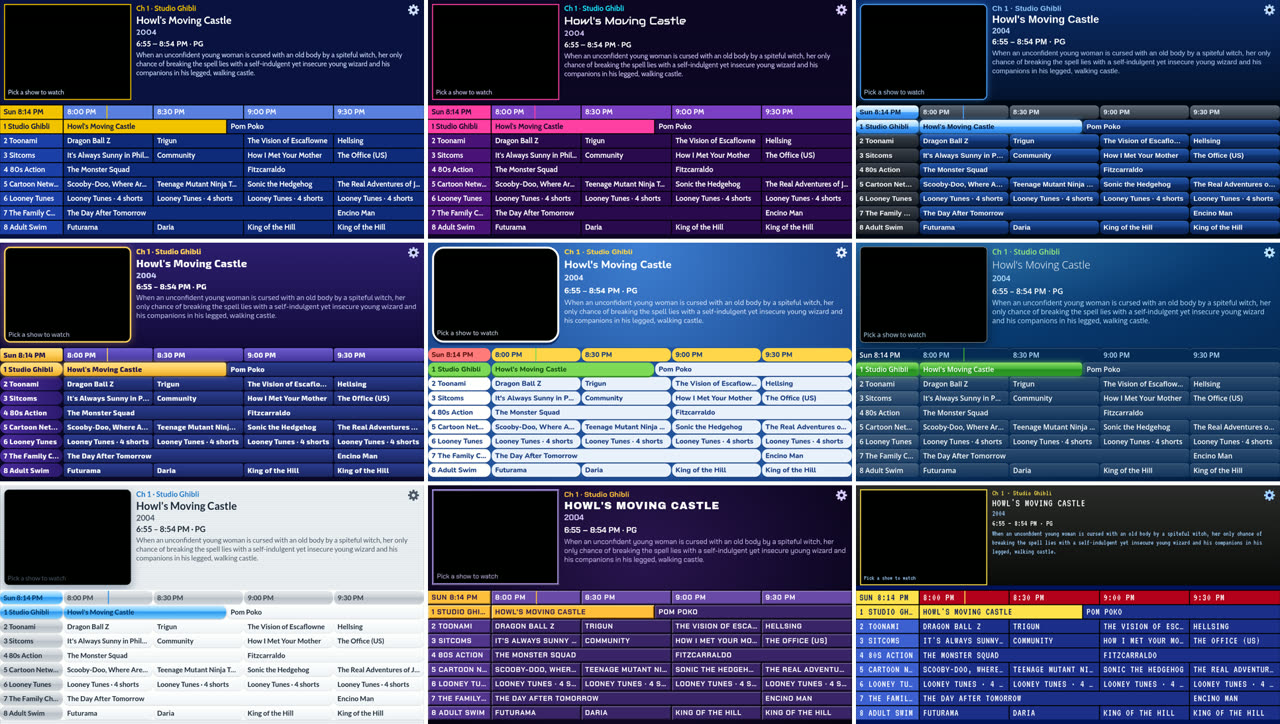
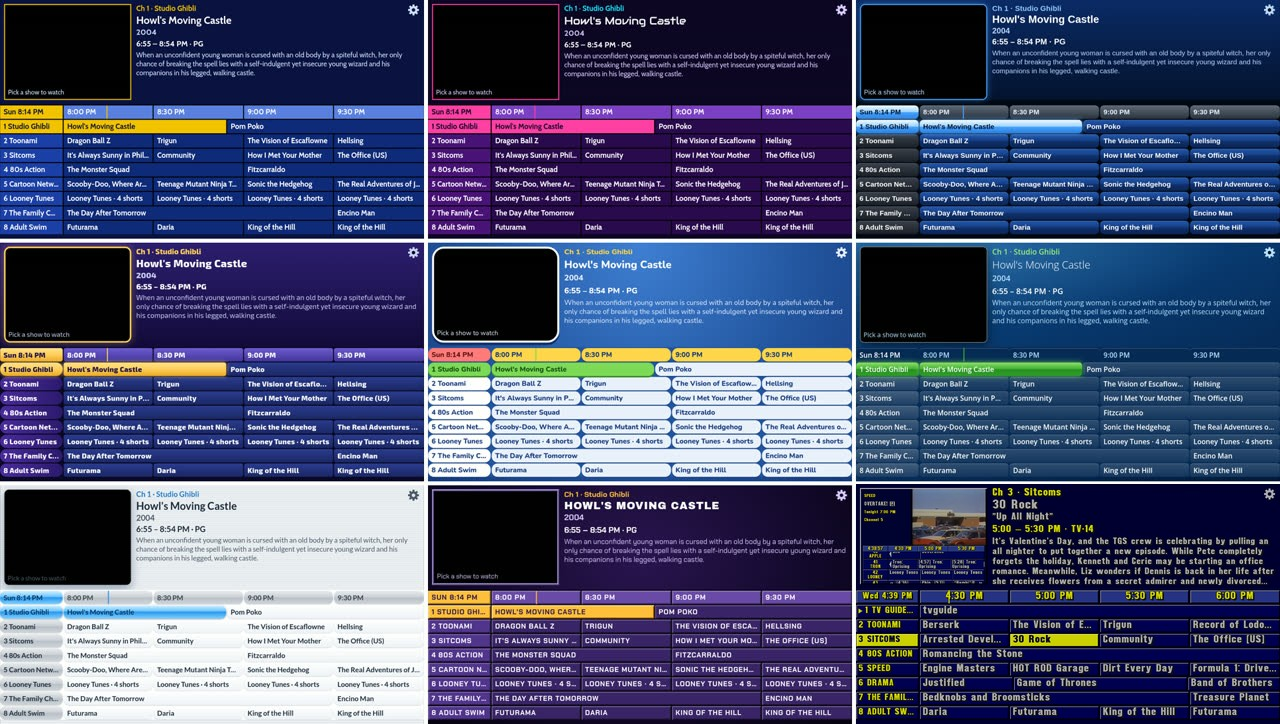
viewer: the TV Guide theme replaces Listings Channel
The ninth theme now has the look of the TV Guide Channel page: its
colours, the 3-D frame on every box, the heavy black shadow under the
lettering and the PrevueGrid font. The highlight, which the channel never
had, is the yellow as a solid box. Its splash is a still of that page.

The theme keeps the id "listings", so a device that had the old one
chosen and the box's boot splash files carry over. VT323 is no longer
used and leaves the repo. The box's boot splash and the README montages
are rendered again.

Claude-Session: https://claude.ai/code/session_01WarfUeWAuyQyJtkBMvbMCn

diff --git a/docker/web/app/css/guide.css b/docker/web/app/css/guide.css
@@ -54,7 +54,7 @@
 }
 
 /* Faces of the 2026-11 themes (Digital Cable, Satellite, DVR, Media Center,
-   Aqua, Set-Top Web, Listings Channel): Latin only, loaded when a theme uses them. */
+   Aqua, Set-Top Web): Latin only, loaded when a theme uses them. */
 @font-face {
   font-family: "Arimo"; font-style: normal; font-weight: 400; font-display: swap;
   src: url("/fonts/arimo-latin-400-normal.woff2") format("woff2");
@@ -135,10 +135,11 @@
   src: url("/fonts/chakra-petch-latin-700-normal.woff2") format("woff2");
   unicode-range: U+0000-00FF, U+0131, U+0152-0153, U+02BB-02BC, U+02C6, U+02DA, U+02DC, U+0304, U+0308, U+0329, U+2000-206F, U+20AC, U+2122, U+2191, U+2193, U+2212, U+2215, U+FEFF, U+FFFD;
 }
+/* The TV Guide theme's face: the Amiga listings font of the real channel
+   (not ours: see fonts/PrevueGrid-NOTICE.txt). css/tvguide.css uses the same file. */
 @font-face {
-  font-family: "VT323"; font-style: normal; font-weight: 400; font-display: swap;
-  src: url("/fonts/vt323-latin-400-normal.woff2") format("woff2");
-  unicode-range: U+0000-00FF, U+0131, U+0152-0153, U+02BB-02BC, U+02C6, U+02DA, U+02DC, U+0304, U+0308, U+0329, U+2000-206F, U+20AC, U+2122, U+2191, U+2193, U+2212, U+2215, U+FEFF, U+FFFD;
+  font-family: "PrevueGrid"; font-style: normal; font-weight: 400; font-display: swap;
+  src: url("/fonts/PrevueGrid.ttf") format("truetype");
 }
 
 /* ---- Themes ---------------------------------------------------------- */
@@ -191,6 +192,9 @@
   --lines: var(--gap);            /* the frame behind settings rows and button groups;
                                      transparent in the rounded themes, so no box shows */
   --track: normal;
+  --chan-text: var(--text);       /* channel names; yellow in the TV Guide theme */
+  --chan-case: var(--case);
+  --ink-shadow: none;             /* a hard shadow under all lettering (TV Guide theme) */
 }
 
 /* Vaporwave: purple cells, pink where Cable is yellow, cyan for accent
@@ -322,24 +326,52 @@
   --frame: 4px ridge #8f7bc0;
 }
 
-/* Listings Channel (early-90s listings channel): deep blue boxes, a red
-   time bar, big pixel lettering. */
+/* TV Guide (the scrolling listings channel of the late 1990s, as on our
+   channel 1): the colours, frames, lettering and font of css/tvguide.css.
+   Background #000030, boxes #000051, the time bar #263383, yellow #cbd100
+   for channels and times, grey #aaaaaa listings, every box in the Amiga's
+   3-D frame (a black line, then a light top-left and a black bottom-right
+   edge) and every letter over a heavy black shadow. The highlight, which
+   the channel never had, is the yellow as a solid box. */
 [data-theme="listings"] {
-  --navy: #00125a; --program: #1c2e8a; --channel: #3d5fd1; --timebar: #b3001b;
-  --yellow: #ffe14d; --soft: #9fd0ff; --white: #ffffff; --gap: #000000;
-  --ink-accent: #ffe14d; --splash-bg: #00125a;
-  --font: "VT323", "Courier New", monospace; --font-display: var(--font); --display-weight: 400;
-  --band: linear-gradient(180deg, #2a2a2a 0%, #0a0a0a 100%);
-  --sel-text: #00125a; --cell-font: 20px; --case: uppercase; --track: 1px;
+  --navy: #000030; --program: #000051; --channel: #000051; --timebar: #263383;
+  --yellow: #cbd100; --soft: #aaaaaa; --white: #aaaaaa; --gap: #000030;
+  --ink-accent: #cbd100; --splash-bg: #000030;
+  --font: "PrevueGrid", "Arimo", Arial, Helvetica, sans-serif; --font-display: var(--font); --display-weight: 400;
+  --text: #aaaaaa; --slot-text: #cbd100; --chan-text: #cbd100; --chan-case: uppercase;
+  --fill-clock: #263383; --clock-text: #cbd100; --sel-text: #000030;
+  --cell-font: 21px;
+  --cell-shadow: inset 0 0 0 1px #000, inset 2px 2px 0 #aaaaaa, inset -2px -2px 0 #000;
+  --sel-shadow: inset 0 0 0 1px #000, inset 2px 2px 0 #f4f7a0, inset -2px -2px 0 #000;
+  --ink-shadow: 1px 0 0 #111, -1px 0 0 #111, 0 1px 0 #111, 0 -1px 0 #111, 2px 2px 0 #111, 3px 3px 0 #111;
+  --frame: 2px solid #aaaaaa;
 }
-/* VT323 has one weight; never a faux bold. */
-:root[data-theme="listings"] body { font-weight: 400; }
-/* VT323 sets small for its size: the details beside the picture go up a step. */
-:root[data-theme="listings"] #info .ch { font-size: 20px; }
-:root[data-theme="listings"] #info .title { font-size: 28px; }
-:root[data-theme="listings"] #info .ep, :root[data-theme="listings"] #info .time { font-size: 21px; }
-:root[data-theme="listings"] #info .plot { font-size: 19px; line-height: 20px; }
-:root[data-theme="listings"] #previewFrame { font-size: 17px; }
+/* The font has one weight: never a faux bold (the other themes' previews
+   in the theme picker keep their own weights). */
+:root[data-theme="listings"] body,
+:root[data-theme="listings"] body *:not(.tpPrev):not(.tpPrev *) { font-weight: 400 !important; }
+/* Dark lettering on the yellow highlight carries no shadow. */
+:root[data-theme="listings"] .sel { text-shadow: none; }
+/* The frame's two edges, as on every box. */
+:root[data-theme="listings"] #previewFrame { border-color: #aaaaaa #000 #000 #aaaaaa; font-size: 16px; }
+/* The font is wide and sets small for its size: the cells sit a pixel high,
+   and the details beside the picture go up a step. */
+:root[data-theme="listings"] .cell { line-height: 26px; padding: 0 6px; }
+:root[data-theme="listings"] .cell.clock, :root[data-theme="listings"] .cell.slot { text-align: center; }
+/* The narrow first column: a size down, so "Wed 4:12 PM" and most channel names fit. */
+:root[data-theme="listings"] .cell.chan { font-size: 18px; padding: 0 5px; }
+:root[data-theme="listings"] .cell.clock { font-size: 17px; padding: 0 2px; }
+:root[data-theme="listings"] #info .ch { font-size: 21px; }
+:root[data-theme="listings"] #info .title { font-size: 25px; margin: 3px 0; }
+:root[data-theme="listings"] #info .ep, :root[data-theme="listings"] #info .time { font-size: 20px; }
+:root[data-theme="listings"] #info .time { color: var(--yellow); }
+:root[data-theme="listings"] #info .plot { font-size: 18px; line-height: 20px; }
+:root[data-theme="listings"] #gridMsg, :root[data-theme="listings"] .btn,
+:root[data-theme="listings"] #setRows > div { font-size: 19px; }
+:root[data-theme="listings"] #setTitle, :root[data-theme="listings"] #tpTitle,
+:root[data-theme="listings"] #detMeta { font-size: 20px; }
+:root[data-theme="listings"] #setHelp, :root[data-theme="listings"] #detText { font-size: 18px; }
+:root[data-theme="listings"] #tpHelp { font-size: 16px; }
 
 html, body {
   margin: 0; height: 100%; overflow: hidden; background: #000;
@@ -348,6 +380,7 @@ html, body {
 body {
   transform-origin: 0 0;          /* stretched by the script for non-square pixels (?screen=) */
   font-family: var(--font); font-weight: 700; color: var(--white);
+  text-shadow: var(--ink-shadow);
   -webkit-user-select: none; user-select: none;
   touch-action: none; -webkit-tap-highlight-color: transparent;
   -webkit-text-size-adjust: 100%; text-size-adjust: 100%;
@@ -402,7 +435,7 @@ body.tv, body.tv * { cursor: none !important; }
 }
 .cell.clock { background: var(--fill-clock); color: var(--clock-text); }
 .cell.slot { background: var(--fill-slot); color: var(--slot-text); }
-.cell.chan { background: var(--fill-channel); cursor: pointer; border-radius: var(--r-chan); }
+.cell.chan { background: var(--fill-channel); color: var(--chan-text); text-transform: var(--chan-case); cursor: pointer; border-radius: var(--r-chan); }
 .cell.show { background: var(--fill-program); cursor: pointer; }
 .cell.none { color: var(--soft); }
 .cell.narrow { padding: 0; color: transparent; }
@@ -492,6 +525,7 @@ body.settings #cog { color: var(--ink-accent); }
   background: var(--band) top / 100% 45% no-repeat, var(--stage-bg);
   display: flex; flex-direction: column; justify-content: flex-end; gap: 3px; padding: 4px 5px;
   font-family: var(--font); color: var(--white); text-align: left;
+  text-shadow: var(--ink-shadow);   /* this tile's own, not the page's */
 }
 .tpName {
   font-family: var(--font-display); font-weight: var(--display-weight);
@@ -509,7 +543,7 @@ body.settings #cog { color: var(--ink-accent); }
 .tpUsing {
   position: absolute; right: 4px; top: 4px; padding: 0 5px; height: 15px; line-height: 15px;
   font-size: 11px; font-weight: 700; border-radius: 3px;
-  background: var(--fill-sel); color: var(--sel-text);
+  background: var(--fill-sel); color: var(--sel-text); text-shadow: none;
 }
 
 /* ---- Show details (over the grid) --------------------------------- */
@@ -666,7 +700,7 @@ body.tv #banner.narrow #banMute { border-right: 0; }
    nothing shows at the edges but the scene. */
 
 #splash {
-  position: fixed; inset: 0; background: var(--splash-bg);
+  position: fixed; inset: 0; background: var(--splash-bg); text-shadow: none;
   transition: opacity 450ms ease-out;
 }
 #splash.fade { opacity: 0; pointer-events: none; }
@@ -687,7 +721,7 @@ body.tv #banner.narrow #banMute { border-right: 0; }
 #splash .lato { font-family: "Lato", Arial, sans-serif; font-weight: 900; }
 #splash .archivo { font-family: "Archivo Black", "Arial Black", Impact, sans-serif; }
 #splash .chakra { font-family: "Chakra Petch", Arial, sans-serif; font-weight: 400; }
-#splash .vt { font-family: "VT323", "Courier New", monospace; }
+#splash .pv { font-family: "PrevueGrid", "Arimo", Arial, sans-serif; }
 /* Lettering appears once its font is in (or after a short wait). */
 #splash:not(.ready) text { visibility: hidden; }
 @media (prefers-reduced-motion: no-preference) {

diff --git a/docker/web/app/js/splash.js b/docker/web/app/js/splash.js
@@ -312,33 +312,56 @@ function settopSvg() {
     + '</svg>';
 }
 
-// Listings Channel: a promo up top, the red bar, the listings grid below.
+// ---- TV Guide: the scrolling listings channel ------------------------------------
+// The page of css/tvguide.css as a still: the promo box and a "coming up"
+// card on the dark blue above, the time bar and three listing rows below,
+// every box in the Amiga's 3-D frame and every letter over its black shadow.
+// Straight quotes: the font has no curly ones, and the PNG renderer
+// (tools/render-splash) would set the whole line in another face.
+const PV_INK = '#111111';
+// Lettering with the heavy shadow: a black outline, and a copy down and right.
+function pvText(x, y, size, fill, text, anchor = 'start') {
+  const at = (dx, dy, color) => `<text class="pv" x="${x + dx}" y="${y + dy}" font-size="${size}" fill="${color}" text-anchor="${anchor}">${text}</text>`;
+  return [[1, 0], [-1, 0], [0, 1], [0, -1], [2, 2], [3, 3]].map(([dx, dy]) => at(dx, dy, PV_INK)).join('') + at(0, 0, fill);
+}
+// A framed box: a black line, a light top-left edge, a black bottom-right edge.
+function pvBox(x, y, w, h, fill) {
+  return `<rect x="${x}" y="${y}" width="${w}" height="${h}" fill="#000"/>`
+    + `<rect x="${x + 1}" y="${y + 1}" width="${w - 2}" height="${h - 2}" fill="#aaaaaa"/>`
+    + `<rect x="${x + 2}" y="${y + 2}" width="${w - 3}" height="${h - 3}" fill="#000"/>`
+    + `<rect x="${x + 2}" y="${y + 2}" width="${w - 4}" height="${h - 4}" fill="${fill}"/>`;
+}
 function listingsSvg() {
-  const rows = [['37 MCU', [['Iron Man', 2], ['Iron Man 2', 1]]], ['39 SCI-FI', [['Stargate SG-1', 2], ['Fringe', 1]]],
-    ['42 SPEED', [['Initial D', 1], ['MF Ghost', 1], ['Dirt Every Day', 1]]], ['44 MARATHON', [['The Terminator', 3]]],
-    ['46 DISCOVERY', [['Planet Earth', 2], ['Mail Call', 1]]]];
-  let grid = '', y = 260;
-  for (const [ch, cells] of rows) {
-    grid += `<rect x="${-PAD}" y="${y}" width="${PAD + 120}" height="34" fill="#3d5fd1"/><text class="vt" x="8" y="${y + 24}" font-size="22" fill="#fff">${ch}</text>`;
-    let x = 122;
-    for (const [t, span] of cells) {
-      const w = span * 172 - 2 + (x + span * 172 >= 638 ? PAD : 0);
-      grid += `<rect x="${x}" y="${y}" width="${w}" height="34" fill="#1c2e8a"/><text class="vt" x="${x + 8}" y="${y + 24}" font-size="22" fill="#fff">${t.toUpperCase()}</text>`;
-      x += span * 172;
+  const YEL = '#cbd100', GREY = '#aaaaaa', ROW = '#000051', BAR = '#263383';
+  const X0 = 9, CH = 129, COL = [154, 154, 186], TOP = 289, BARH = 31, ROWH = 53;
+  const colX = n => X0 + CH + COL.slice(0, n).reduce((a, b) => a + b, 0);
+  let g = pvBox(X0, TOP, CH, BARH, BAR) + pvText(X0 + CH / 2, TOP + 23, 24, YEL, '8:00:00', 'middle');
+  ['8:00 PM', '8:30 PM', '9:00 PM'].forEach((t, n) => {
+    g += pvBox(colX(n), TOP, COL[n], BARH, BAR) + pvText(colX(n) + COL[n] / 2, TOP + 23, 24, YEL, t, 'middle');
+  });
+  const rows = [['2', 'TOONAMI', [['Sailor Moon', 1], ['Dragon Ball Z', 2]]],
+    ['3', 'SITCOMS', [['Cheers', 1], ['Frasier', 1], ['Seinfeld', 1]]],
+    ['4', 'ACTION', [['&quot;Die Hard&quot; [1988]', 3]]]];
+  rows.forEach(([num, name, cells], r) => {
+    const y = TOP + BARH + r * ROWH;
+    g += pvBox(X0, y, CH, ROWH, ROW) + pvText(X0 + CH / 2, y + 22, 24, YEL, num, 'middle') + pvText(X0 + CH / 2, y + 45, 24, YEL, name, 'middle');
+    let n = 0;
+    for (const [title, span] of cells) {
+      const w = COL.slice(n, n + span).reduce((a, b) => a + b, 0);
+      g += pvBox(colX(n), y, w, ROWH, ROW) + pvText(colX(n) + 9, y + 22, 24, GREY, title);
+      n += span;
     }
-    y += 36;
-  }
+  });
   return open
-    + '<defs><linearGradient id="ls-top" gradientUnits="userSpaceOnUse" x1="0" y1="-420" x2="0" y2="226"><stop offset="0" stop-color="#2a2a2a"/><stop offset="1" stop-color="#0a0a0a"/></linearGradient></defs>'
-    + back('#000')
-    + `<rect x="${-PAD}" y="${-PAD}" width="${W + 2 * PAD}" height="${PAD + 226}" fill="url(#ls-top)"/>`
-    + '<text class="vt" x="324" y="104" font-size="72" letter-spacing="4" fill="#b3001b" text-anchor="middle">RETRO TV</text>'
-    + '<text class="vt" x="320" y="100" font-size="72" letter-spacing="4" fill="#ffe14d" text-anchor="middle">RETRO TV</text>'
-    + '<text class="vt" x="320" y="140" font-size="28" letter-spacing="3" fill="#fff" text-anchor="middle">THE ALL-LISTINGS CHANNEL</text>'
-    + '<text class="vt" x="320" y="172" font-size="21" fill="#9fd0ff" text-anchor="middle">Stay tuned for local weather</text>'
-    + `<rect x="${-PAD}" y="228" width="${W + 2 * PAD}" height="30" fill="#b3001b"/>`
-    + '<text class="vt" x="10" y="250" font-size="22" fill="#fff">SUNDAY 8:00 PM      SCROLLING LISTINGS      CH 1-57</text>'
-    + grid
+    + back('#000030')
+    + '<rect x="0" y="0" width="385" height="289" fill="#000"/>'
+    + pvText(192, 132, 64, YEL, 'RETRO TV', 'middle')
+    + pvText(192, 176, 24, GREY, 'please stand by', 'middle')
+    + pvText(401, 44, 22, YEL, 'RETRO TV')
+    + pvText(401, 84, 26, GREY, '&quot;The Guide&quot;')
+    + pvText(401, 124, 22, YEL, 'Tonight 8:00 PM')
+    + pvText(401, 164, 22, YEL, 'Channel 1')
+    + g
     + '</svg>';
 }
 
@@ -350,7 +373,7 @@ export const SCENES = {
   mediacenter: { svg: mediacenterSvg, fonts: ['300 50px "Open Sans"', '400 16px "Open Sans"', '600 20px "Open Sans"'] },
   aqua: { svg: aquaSvg, fonts: ['900 54px Lato', '400 17px Lato', '700 15px Lato'] },
   settop: { svg: settopSvg, fonts: ['52px "Archivo Black"', '18px "Chakra Petch"'] },
-  listings: { svg: listingsSvg, fonts: ['72px VT323'] },
+  listings: { svg: listingsSvg, fonts: ['24px PrevueGrid'] },
   vapor: {
     svg: vaporSvg,
     fonts: ['88px Audiowide', '58px "Mr Dafoe"'],

diff --git a/docker/web/app/js/themes.js b/docker/web/app/js/themes.js
@@ -38,8 +38,10 @@ export const THEMES = [
     help: 'A late-90s internet box on the TV: purple and black, chunky bevelled buttons, everything in capitals.',
   },
   {
-    id: 'listings', label: 'Listings Channel', splash: 'listings', color: '#00125a',
-    help: 'The early-90s listings channel: deep blue boxes, a red time bar, big pixel lettering.',
+    // The id is still "listings" (the theme this one replaced), so a device
+    // that had it chosen, and the box's boot splash files, carry over.
+    id: 'listings', label: 'TV Guide', splash: 'listings', color: '#000030',
+    help: 'The scrolling TV Guide Channel of the late 90s, as on channel 1: dark blue boxes in 3-D frames, yellow channels and times, grey listings in the Amiga font.',
   },
 ];
 

diff --git a/docker/README.md b/docker/README.md
@@ -38,7 +38,7 @@ machine that runs it, and any other reverse proxy can stand in its place.
 
 <table><tr><td align="center"><img src="../docs/img/readme/splash-cable-1280.png" width="600"><br><sub>The Cable splash, shown on load</sub></td><td align="center"><img src="../docs/img/readme/splash-vapor-1280.png" width="600"><br><sub>The Vaporwave splash</sub></td></tr></table>
 
-<table><tr><td align="center"><img src="../docs/img/readme/themes-guide.jpg" width="600"><br><sub>All nine themes: Cable, Vaporwave, Digital Cable / Satellite, DVR, Media Center / Aqua, Set-Top Web, Listings Channel</sub></td><td align="center"><img src="../docs/img/readme/themes-splash.jpg" width="600"><br><sub>Their splashes, in the same order</sub></td></tr></table>
+<table><tr><td align="center"><img src="../docs/img/readme/themes-guide.jpg" width="600"><br><sub>All nine themes: Cable, Vaporwave, Digital Cable / Satellite, DVR, Media Center / Aqua, Set-Top Web, TV Guide</sub></td><td align="center"><img src="../docs/img/readme/themes-splash.jpg" width="600"><br><sub>Their splashes, in the same order</sub></td></tr></table>
 
 <table><tr><td align="center"><img src="../docs/img/readme/tv-guide-playing-cable.png" width="400"><br><sub>The ?tv layout at the CRT's 640×480</sub></td><td align="center"><img src="../docs/img/readme/tv-details-cable.png" width="400"><br><sub>Details at 640×480</sub></td></tr></table>
 
@@ -134,7 +134,7 @@ Keep it on the tailnet. Do not publish it to the internet (no Funnel, no port fo
 - **The splash.** Opening or reloading the page shows the theme's splash for about 2½ seconds
   while the listings load: a little television for Cable, a sunset over a scrolling grid for
   Vaporwave, and a scene in each newer theme's style (a glowing orb, a dish in orbit, a friendly
-  TV, a green play button, a gel icon, a sunburst, the listings channel). The scenes are drawn in
+  TV, a green play button, a gel icon, a sunburst, a still of the TV Guide Channel). The scenes are drawn in
   `js/splash.js`; the grid is a true perspective projection,
   so the same code can draw it on a Pi's boot screen.
 - **Making a theme.** A theme is a `[data-theme="…"]` block of tokens in `css/guide.css`, an
@@ -157,7 +157,7 @@ The cog opens settings. They are kept by the browser they were set in, so each d
 
 | Setting | Choices |
 |---|---|
-| Theme | **Cable**: the late-90s guide, navy and yellow, flat cells. **Vaporwave**: purple cells, pink highlights, cyan text, chrome titles. **Digital Cable**: black and deep blue, glossy rounded bars, a glowing light-blue highlight. **Satellite**: navy into purple, rounded tabs, gold. **DVR**: soft blues, rounded white pills, green highlight. **Media Center**: glassy see-through tiles, green glow, a thin face. **Aqua**: light pinstripes, white rounded cells, a blue gel highlight. **Set-Top Web**: purple and black, chunky bevelled buttons, capitals. **Listings Channel**: deep blue boxes, red time bar, pixel lettering. Each theme has its own splash (below); changing the theme replays it. The looks are in the style of their era; no real logos or names. |
+| Theme | **Cable**: the late-90s guide, navy and yellow, flat cells. **Vaporwave**: purple cells, pink highlights, cyan text, chrome titles. **Digital Cable**: black and deep blue, glossy rounded bars, a glowing light-blue highlight. **Satellite**: navy into purple, rounded tabs, gold. **DVR**: soft blues, rounded white pills, green highlight. **Media Center**: glassy see-through tiles, green glow, a thin face. **Aqua**: light pinstripes, white rounded cells, a blue gel highlight. **Set-Top Web**: purple and black, chunky bevelled buttons, capitals. **TV Guide**: the look of the TV Guide Channel page below (channel 1), with its colours, 3-D frames, shadowed lettering and the PrevueGrid font; the highlight is a solid yellow box. Each theme has its own splash (below); changing the theme replays it. The looks are in the style of their era; no real logos or names. |
 | Quality | **Standard**: the 4:3 picture made for the old TV. **HD**: the same channels in widescreen 1080p. The guide, names and numbers do not change. Only shown when the server has HD twins (below). |
 | Picture | **Original**: the whole 4:3 picture, as on the TV. **Fill the screen**: while watching, zooms in until the black bars around a widescreen show are off the screen; a true 4:3 show is left as it is. For wide monitors. The zoom follows the picture, so it can change when a 4:3 commercial follows a widescreen film. |
 | Fast flipping | **On**: the next channel is warmed up while you flip (see below). **Off**: channels start only when tuned. |
@@ -311,7 +311,7 @@ docker/
 │       ├── js/theme-boot.js  puts the saved theme on <html> before the first paint
 │       ├── js/splash.js      the splash scenes and the perspective floor grid
 │       ├── js/app.js         the guide, the three screens, every input
-│       ├── fonts/            the themes' fonts (SIL Open Font License) and PrevueGrid for the TV Guide page (see its NOTICE)
+│       ├── fonts/            the themes' fonts (SIL Open Font License) and PrevueGrid for the TV Guide page and theme (see its NOTICE)
 │       └── vendor/           hls.js 1.7.3 (Apache-2.0), served from here, not a CDN
 ├── notes/                    hand-over notes to the Pi side
 └── design/mockup.html        the approved design

diff --git a/README.md b/README.md
@@ -37,7 +37,7 @@ the channels; several small boxes and apps tune in.
 | Piece | What it is | Start here |
 |---|---|---|
 | **ErsatzTV channels** | How the channels are built: video profile for a CRT, smart collections, ad breaks, schedules, the commercials catalog (1,120 clips) and a script to rebuild them | [`ersatztv/README.md`](ersatztv/README.md) |
-| **Browser app** | The TV guide viewer: plain HTML/CSS/JS behind nginx, in Docker. Pick a show, it plays; keeps playing in the corner while you browse. Nine themes (Cable, Vaporwave, Digital Cable, Satellite, DVR, Media Center, Aqua, Set-Top Web, Listings Channel), each with its own splash screen. Reachable from phones over Tailscale through [Gantry](https://github.com/awall451/gantry), a companion project | [`docker/README.md`](docker/README.md) |
+| **Browser app** | The TV guide viewer: plain HTML/CSS/JS behind nginx, in Docker. Pick a show, it plays; keeps playing in the corner while you browse. Nine themes (Cable, Vaporwave, Digital Cable, Satellite, DVR, Media Center, Aqua, Set-Top Web, TV Guide), each with its own splash screen. Reachable from phones over Tailscale through [Gantry](https://github.com/awall451/gantry), a companion project | [`docker/README.md`](docker/README.md) |
 | **Batocera Pi** | The first Pi: Batocera 43.1 with retro games, Kodi live TV with a cable-style guide skin, Plex, and two display profiles (flat HDMI TV or the Trinitron through a composite converter) | [`pi/README.md`](pi/README.md), full guide in [`docs/`](docs/index.html) |
 | **Retro TV box** | The second Pi: a stock Pi OS Lite card plus one script becomes a box that boots to the guide full screen on a CRT, with a themed boot splash and an IR remote | [`pi-image/README.md`](pi-image/README.md) |
 | **Roku** | The same guide and channels as a sideloaded Roku channel | [`roku-tv/README.md`](roku-tv/README.md) |
